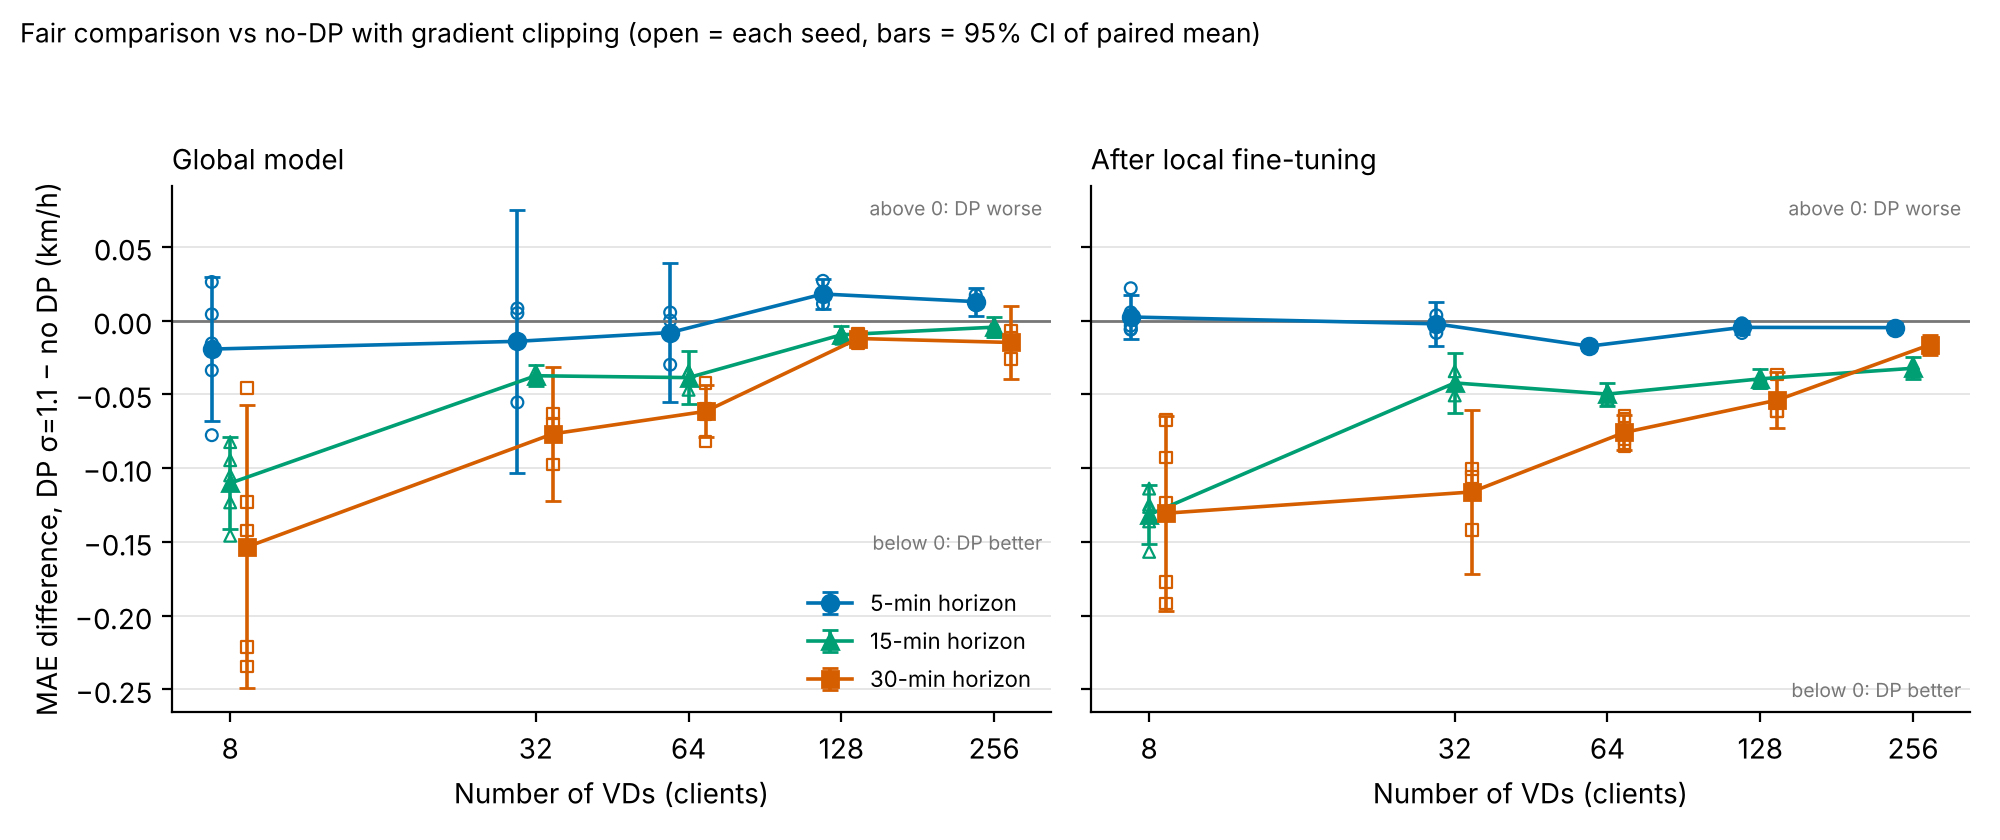
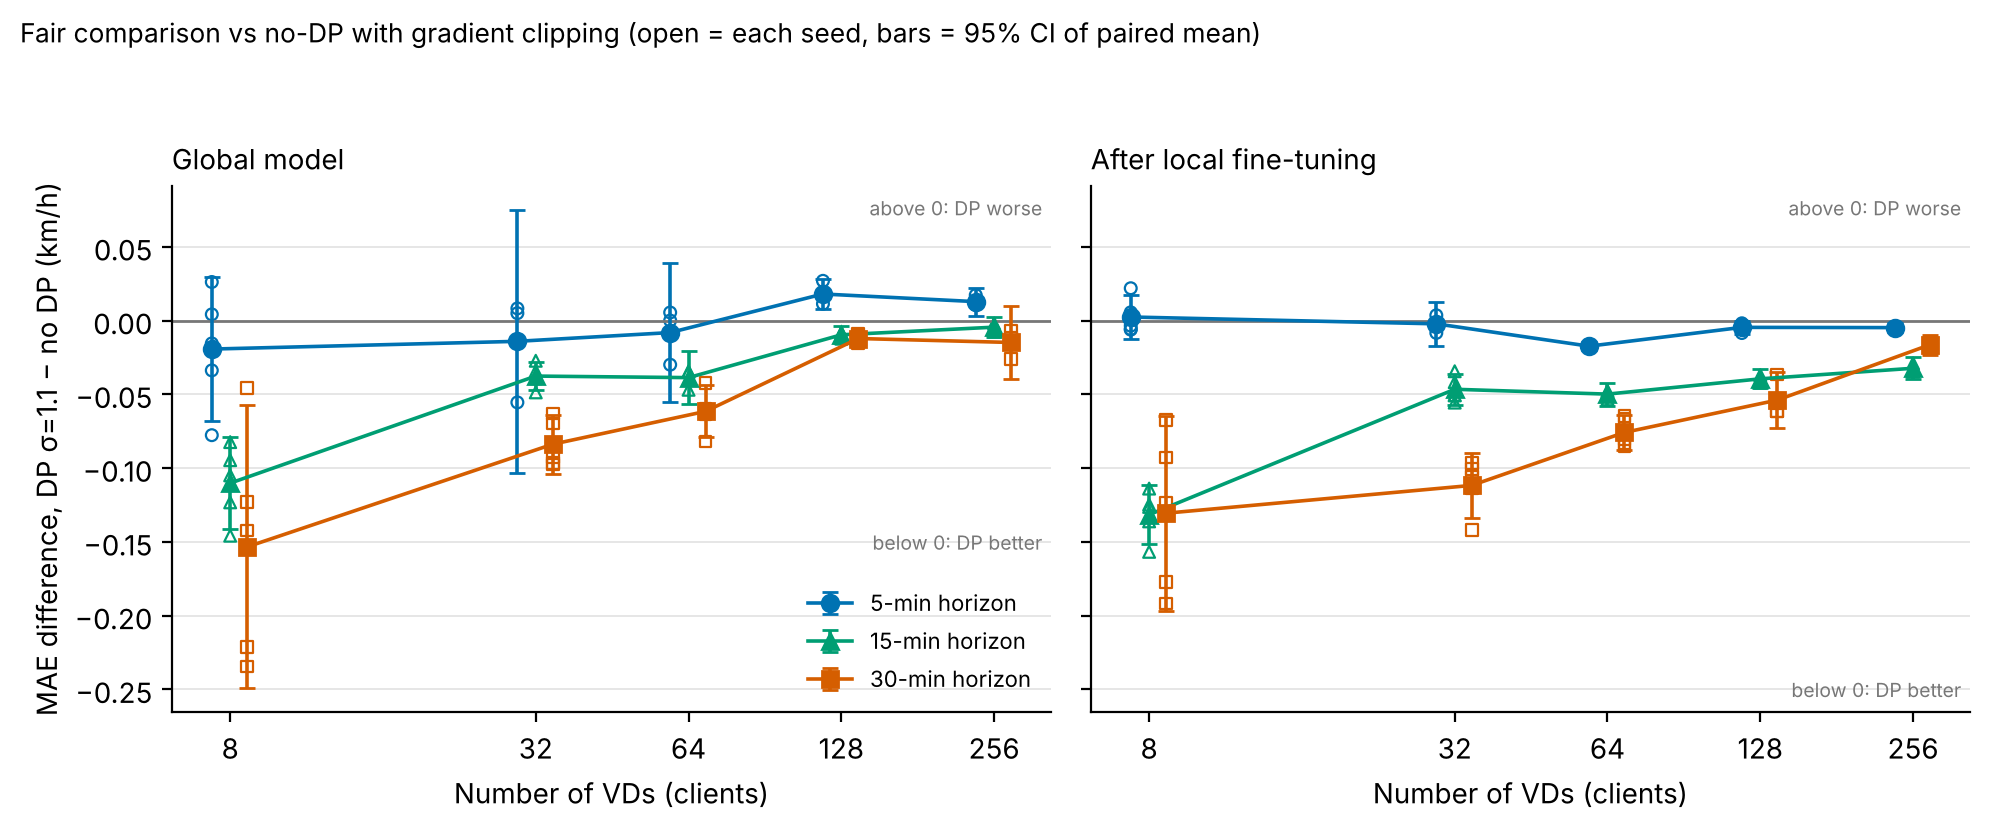
README/figure: 32 VD 15/30-min, 5 seeds
Claude-Session: https://claude.ai/code/session_01EJ1mjjmKwMNR6cY38Rxgw7

diff --git a/scripts/plot_dp_vs_nodp.py b/scripts/plot_dp_vs_nodp.py
@@ -31,7 +31,7 @@ PAIRS = {
     (8, 5): _within("d8_fair", (1, 2, 3)) + _within("d8_fair_s45", (4, 5)),
     (8, 30): _within("d8_h6_fair", (1, 2, 3)) + _within("d8_h6_fair_s45", (4, 5)),
     (32, 5): _within("d32_fair", (1, 2, 3)),
-    (32, 30): _within("d32_h6_fair", (1, 2, 3)),
+    (32, 30): _within("d32_h6_fair", (1, 2, 3)) + _within("d32_h6_fair_s45", (4, 5)),
     (64, 5): _within("d64_fair", (1, 2, 3)),
     (64, 30): _within("d64_h6_fair", (1, 2, 3)) + _within("d64_h6_fair_s45", (4, 5)),
     (128, 5): [(1, ("d128_nodpclip", "nodp_seed1"), ("d128_rec", "dp_sigma1.1_seed1")),
@@ -43,7 +43,7 @@ PAIRS = {
                (2, ("d256_nodpclip", "nodp_seed2"), ("d256s", "dp_sigma1.1_seed2")),
                (3, ("d256_s3more", "nodp"), ("d256s", "dp_sigma1.1_seed3"))],
     (8, 15): _within("d8_h3_fair", (1, 2, 3)) + _within("d8_h3_fair_s45", (4, 5)),
-    (32, 15): _within("d32_h3_fair", (1, 2, 3)),
+    (32, 15): _within("d32_h3_fair", (1, 2, 3)) + _within("d32_h3_fair_s45", (4, 5)),
     (64, 15): _within("d64_h3_fair", (1, 2, 3)),
     (128, 15): _within("d128_h3_fair", (1, 2, 3)),
     (256, 15): [(1, ("d256_h3_nodpclip", "nodp"), ("d256_h3", "dp_sigma1.1")),

diff --git a/README.md b/README.md
@@ -415,11 +415,11 @@ record σ1.1 3.085（10.0%）／2.997（12.6%）（全域 −0.012，CI [−0.01
 64 個 VD（3 seed 配對）：5 分鐘（naive 2.548）無 DP＋梯度裁剪 2.257／2.225，record σ1.1 2.249／2.208
 （全域 −0.008，p=0.54；微調後 −0.017，p=0.002）；30 分鐘（5 seed，naive 3.716）3.453／3.354 vs 3.391／3.278
 （全域 −0.062，CI [−0.079, −0.044]；微調後 −0.076，CI [−0.088, −0.064]）。32 個 VD（3 seed 配對）：5 分鐘（naive 2.429）2.197／2.119 vs 2.183／2.116（差異不顯著，p≈0.6）；
-30 分鐘（naive 3.661）3.437／3.347 vs 3.360／3.231（全域 −0.077，p=0.02；微調後 −0.116，p=0.01）。
+30 分鐘（5 seed，naive 3.661）3.446／3.343 vs 3.362／3.231（全域 −0.084，CI [−0.104, −0.064]；微調後 −0.112，CI [−0.134, −0.089]）。
 8 個 VD（5 seed 配對）：5 分鐘（naive 3.008）2.822／2.682 vs 2.803／2.684（差異不顯著）；
 30 分鐘（naive 5.471）5.247／4.996 vs 5.094／4.865（全域 −0.153，CI [−0.249, −0.057]；微調後 −0.131，CI [−0.197, −0.064]）。
-預測 15 分鐘（3 seed 配對）：32 個 VD（naive 3.036）無 DP＋梯度裁剪 2.789／2.714 vs record σ1.1 2.752／2.672
-（全域 −0.037，p=0.002；微調後 −0.042，p=0.01）；64 個 VD（naive 3.115）2.830／2.784 vs 2.791／2.734
+預測 15 分鐘（3 seed 配對）：32 個 VD（5 seed，naive 3.036）無 DP＋梯度裁剪 2.795／2.720 vs record σ1.1 2.758／2.673
+（全域 −0.038，CI [−0.047, −0.028]；微調後 −0.047，CI [−0.057, −0.036]）；64 個 VD（naive 3.115）2.830／2.784 vs 2.791／2.734
 （全域 −0.039，p=0.01；微調後 −0.050，p=0.001）；8 個 VD（5 seed，naive 4.164）3.987／3.873 vs 3.877／3.741
 （全域 −0.110，CI [−0.141, −0.079]；微調後 −0.132，CI [−0.152, −0.111]）；128 個 VD（naive 2.919）2.600／2.582 vs 2.591／2.543（全域 −0.010，微調後 −0.040）；
 256 個 VD 全域 −0.004（不顯著）、微調後 −0.032。15 分鐘時所有 VD 數微調後 DP 都顯著較好。
